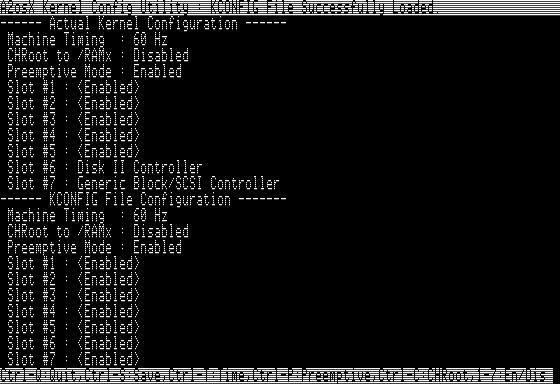
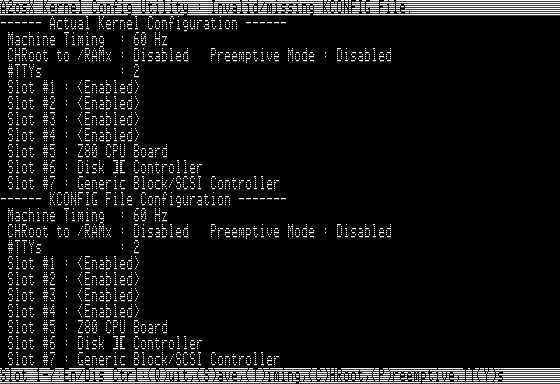
Updating Command Guide.md

diff --git a/.Docs/Command Guide.md b/.Docs/Command Guide.md
@@ -6,7 +6,7 @@ A2osX comes with a nice variety of system, file, network and data utilities or w
 
 ## System Commands
 
-You will usually not use these commands, they are more commonly found in A2osX system scripts such as ./ETC/INIT or they are launched by the A2osX Kernel itself.  All of these commands are found in ./SBIN/ letting you know they are special system commands.
+Typcically, you will not directly use the System group commands; they are more commonly found in A2osX system scripts such as ./ETC/INIT or they are launched by the A2osX Kernel itself.  All of these commands are found in ./SBIN/ letting you know they are special system commands.
 
 ### GETTY
 
@@ -14,11 +14,20 @@ You will usually not use these commands, they are more commonly found in A2osX s
 | --- | --- |
 | GETTY | -E : Exit upon disconnect |
 
+GETTY, short for "get tty", is a system process for A2osX that manages physical or virtual terminals (TTYs). When it detects a connection, it prompts for a username and then loads the system process LOGIN to authenticate the user.  Each GETTY process creates a pseudo file such as /DEV/TTY1 /DEV/TTY2 to allow A2osX pass input/output streams between processes and connected users.
+
+GETTY handles 3 types of connections:
+- for virtual terminals presented and controlled by your Apple Screen and Keyboard.  One GETTY process serves one virtual terminal.  You can configure the number of virtual terminals on your A2osX system using the KCONFIG utility.  Please see **[KCONFIG](###KCONFIG)***. 
+- for serial terminals (or emulated terminals i.e. a PC running a VT-100 emulator) connected to your Apple via a Super Serial Card.  One GETTY process serves one terminal.  See the User Guide for setup and configuration information on connecting Physical Terminals. 
+- for internet terminals connected to your Apple via via the internet using A2osX TCP networking suite.  This suite includes a TELNETD server process that listens for requests from the internet and when such a request is initiated, TELNETD will launch a GETTY process to support that user.  One GETTY process will launch for each TELNET user and will exit when then user disconnects (the TELNETD process calls GETTY with the -E option). 
+
 ### INSDRV
 
 | Command |
 | ---- |
 | INSDRV Driver |
+
+INSDRV, short for "install driver", is a system process that loads and initializes hardware drivers for A2osX.  Drivers are available for the Apple Mouse, Super Serial Card, and a range of Ethernet cards.  Please see the Hardware section of the User Guide for more complete information on the drivers available for A2osX and enabling them in your system.
 
 ### KCONFIG
 
@@ -26,7 +35,16 @@ You will usually not use these commands, they are more commonly found in A2osX s
 | ---- |
 | KCONFIG |
 
-Kernel Configuration Utility writes to ${ROOT}/A2OSX.KCONFIG.
+![](../.screen-shots/ScreenShot.KCONFIG.png)
+
+KCONFIG, short for "Kernel Configuration" Utility, is a system programs that allows the A2osX administrator to configure various settings of their A2osX system.  Any changes to your system configuration are stored in ${ROOT}/A2OSX.KCONFIG.  When A2osX boots and loads the KERNEL process, it looks for this file, and if not present it initialized the KERNEL with A2osX defaults.
+
+In KCONFIG you can set:
+- Machine Timing, either 60 (Default) or 50Hz.  If you change this RGXX will happen.
+- CHRoot to /RAMx, either Disabled (Default) or Enabled.  Enabling does RGXX.
+- Preemptive Mode, either Disabled (Default) or Enabled.  Enabling does RGXX.
+- TTYs, between 1 and 4, default is 2.  This is the number of Virtual Terminals configured on your system.  Please note, increasing and decreasing the number of virtual terminals can have a significant impact on the amount of memory used by the system, which in turns impacts the amount of free memory available to run your A2osX programs and scripts.
+- Slots 1-7, Enabled (Default) or Disabled.  If you disable a slot this RGXX will happen.
 
 ### LOGIN
 
